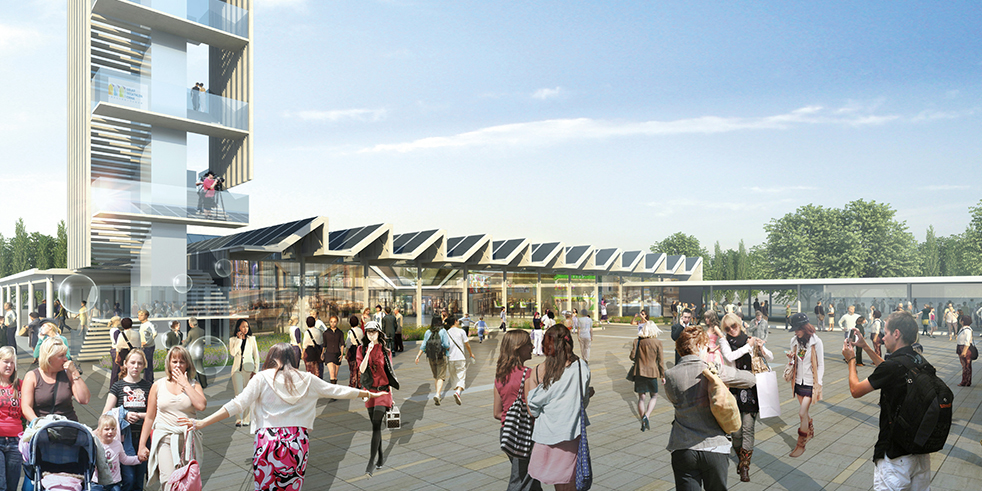
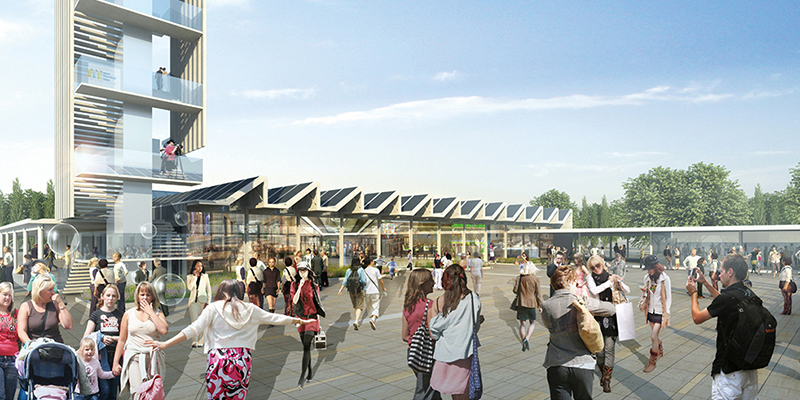
lucas

diff --git a/_includes/html/carousel.html b/_includes/html/carousel.html
@@ -16,7 +16,7 @@
 
 
 		<div class="carousel-inner" role="listbox">
-			<div class="item active" style="background: url({{ site.baseurl }}/assets/img/service_center.png) center center; background-size: cover;">
+			<div class="item active" style="background: url({{ site.baseurl }}/assets/img/service_center.jpg) center center; background-size: cover;">
 				<div class="container">
 					<div class="carousel-caption">
 						<h1>Team Service Center</h1>

diff --git a/_site/index.html b/_site/index.html
@@ -114,7 +114,7 @@
 
 
 		<div class="carousel-inner" role="listbox">
-			<div class="item active" style="background: url(/assets/img/service_center.png) center center; background-size: cover;">
+			<div class="item active" style="background: url(/assets/img/service_center.jpg) center center; background-size: cover;">
 				<div class="container">
 					<div class="carousel-caption">
 						<h1>Team Service Center</h1>
